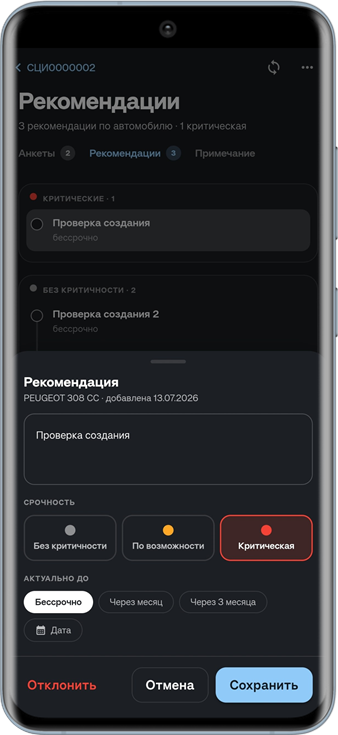
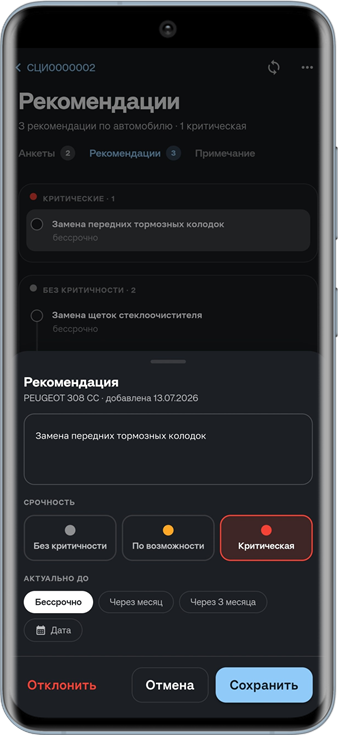
Работа с приложением 5S Remzona (черновик в Katya): скриншоты в разделах «Список документов» и «Примечание» перенесены под свои описания; на скриншоте редактирования рекомендации — тестовые рекомендации вместо «Проверка создания»; на скриншоте пунктов из осмотра — «Щетка стеклоочистителя задняя» (Ка

Changed region(s): [[0.0888, 0.5687, 0.6213, 0.5986], [0.1479, 0.2993, 0.6509, 0.3293], [0.1479, 0.419, 0.5917, 0.449]]

diff --git a/articles/5S AUTO/Автосервис/Работа с приложением 5S Remzona/rabota-s-prilozheniem-5s-remzona.md b/articles/5S AUTO/Автосервис/Работа с приложением 5S Remzona/rabota-s-prilozheniem-5s-remzona.md
@@ -100,7 +100,7 @@
 
 В списке документов отображаются заказ-наряды, новые – сверху, с разбивкой по годам. В карточке заказ-наряда: номер, дата и время, статус, автомобиль и VIN, клиент, мастер и пробег.
 
-![5S Remzona – список документов](attachments/06-spisok-dokumentov.png) &nbsp;&nbsp;&nbsp;&nbsp;&nbsp;&nbsp; ![5S Remzona – отбор по клиенту](attachments/07-otbor-po-klientu.png)
+![5S Remzona – список документов](attachments/06-spisok-dokumentov.png)
 
 Для поиска нужного документа используйте строку *«Поиск документа»*.
 
@@ -113,7 +113,7 @@
 
 По кнопкам *«Организация»*, *«Подразделение»* и *«Клиент»* открывается список для выбора с поиском. Кнопка ***«Упрощённый вид»*** рядом с крестиком показывает список компактно, без изображений.
 
-![5S Remzona – поиск клиента для отбора](attachments/39-otbor-po-klientu-poisk.png)
+![5S Remzona – отбор по клиенту](attachments/07-otbor-po-klientu.png) &nbsp;&nbsp;&nbsp;&nbsp;&nbsp;&nbsp; ![5S Remzona – поиск клиента для отбора](attachments/39-otbor-po-klientu-poisk.png)
 
 Чтобы открыть документ, нажмите на него в списке.
 
@@ -226,23 +226,27 @@
 
 Чтобы изменить рекомендацию, нажмите на нее в списке. Здесь же рекомендацию можно отклонить – кнопка ***«Отклонить»***.
 
-![5S Remzona – добавление рекомендации](attachments/14-dobavlenie-rekomendacii.png)
+![5S Remzona – редактирование рекомендации](attachments/14-dobavlenie-rekomendacii.png)
 
 Подробнее о рекомендациях – в статье «[Работа с рекомендациями](../Работа%20с%20рекомендациями/rabota-s-rekomendaciyami.md)».
 
 #### Примечание
 
-На вкладке – примечание к документу. Под заголовком указано, заполнено ли примечание (*«пока пусто»*) и есть ли несохраненные изменения (*«изменено»*). Текст можно ввести вручную или добавить кнопками под полем примечания (на кнопках указано количество пунктов и рекомендаций):
+На вкладке – примечание к документу. Под заголовком указано, заполнено ли примечание (*«пока пусто»*) и есть ли несохраненные изменения (*«изменено»*).
+
+![5S Remzona – примечание](attachments/20-primechanie.png)
+
+Текст можно ввести вручную или добавить кнопками под полем примечания (на кнопках указано количество пунктов и рекомендаций):
 
 - ***«Из осмотра»*** – пункты анкет, отмеченные при осмотре: название пункта, выбранный вариант и номер пункта, цветом показана оценка;
 - ***«Рекомендации»*** – рекомендации по автомобилю с указанием срочности;
 - ***«Работа из справочника»*** – справочник авторабот с поиском по названию и артикулу. Нажмите на работу и выберите *«Выбрать»* – ее название добавится в примечание отдельной пронумерованной строкой (*«Информация»* – карточка работы).
 
+![5S Remzona – пункты из осмотра в примечании](attachments/38-primechanie-iz-osmotra.png) &nbsp;&nbsp;&nbsp;&nbsp;&nbsp;&nbsp; ![5S Remzona – добавление рекомендации в примечание](attachments/36-primechanie-rekomendacii.png)
+
 Нажмите **«+»** рядом с пунктом или рекомендацией – она добавится в текст примечания (рекомендация – вместе со срочностью в скобках, например *«Замена салонного фильтра (без критичности)»*). Внизу экрана появится строка *«Изменено: текст примечания»* с кнопками ***«Отменить»*** и ***«Сохранить примечание»***. Чтобы записать примечание в 5S AUTO, нажмите ***«Сохранить примечание»***.
 
-![5S Remzona – примечание](attachments/20-primechanie.png) &nbsp;&nbsp;&nbsp;&nbsp;&nbsp;&nbsp; ![5S Remzona – пункты из осмотра в примечании](attachments/38-primechanie-iz-osmotra.png)
-
-![5S Remzona – добавление рекомендации в примечание](attachments/36-primechanie-rekomendacii.png) &nbsp;&nbsp;&nbsp;&nbsp;&nbsp;&nbsp; ![5S Remzona – сохранение примечания](attachments/37-sohranenie-primechaniya.png)
+![5S Remzona – сохранение примечания](attachments/37-sohranenie-primechaniya.png)
 
 ### 4. Заказ
 
